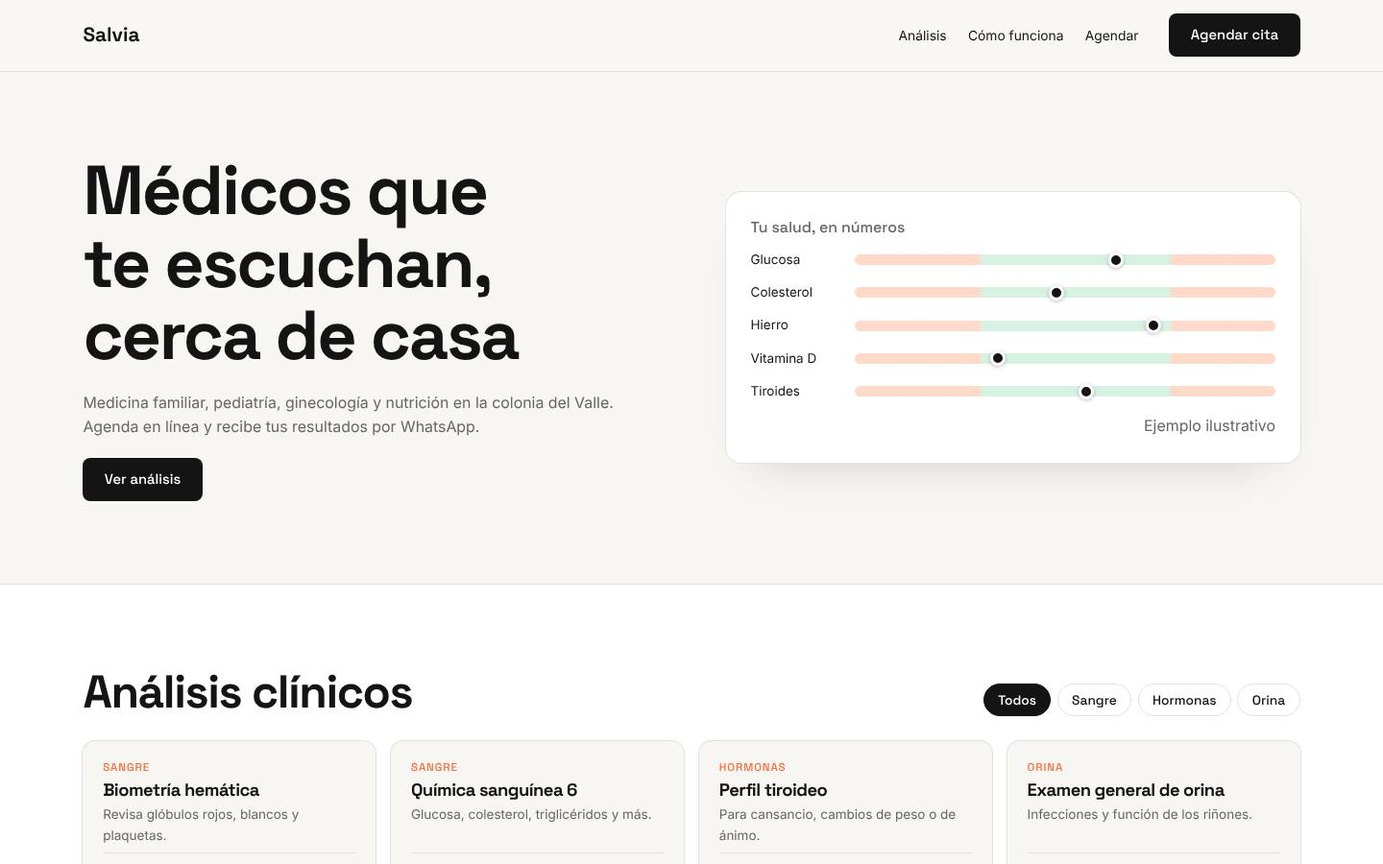
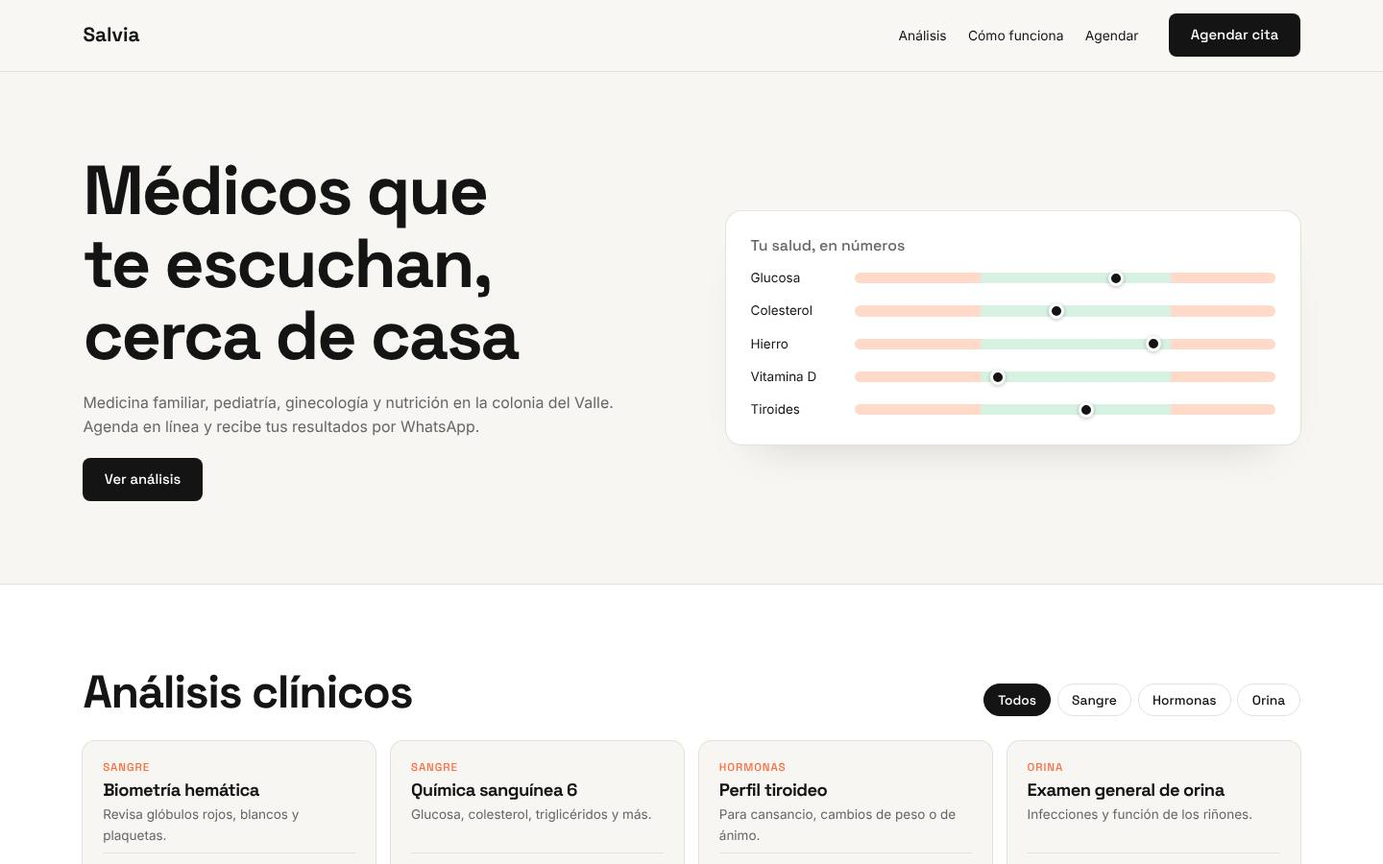
Quita avisos de relleno en plantillas (ejemplo ilustrativo, no sustituye consulta, línea de crisis, resultados no garantizados, notas de fotos)
Claude-Session: https://claude.ai/code/session_017MyEdikhffaKjsPBm6Bdw8

Changed region(s): [[0.5312, 0.2489, 0.9375, 0.5289]]

diff --git a/site/plantillas/cirugia.html b/site/plantillas/cirugia.html
@@ -26,7 +26,7 @@
 <header class="cg-top"><b class="cg-logo">Centro Médico Salvia</b><nav aria-label="Secciones"><a href="#cg-proc">Procedimientos</a><a href="#cg-resultados">Antes y después</a><a href="#cg-blog">Blog</a><a href="#cg-contacto">Contacto</a></nav><a class="cg-btn" href="#cg-contacto" data-sec="cta">Agendar cita</a></header>
 <section class="cg-hero" data-sec="hero"><div class="cg-hero-img" role="img" aria-label="La Dra. Ana Ruiz en su consultorio" style="background-image:url('/img/doc.jpg')"></div><div><p class="cg-kick">Centro médico</p><h1>Médicos que te escuchan, cerca de casa</h1><p>Medicina familiar, pediatría, ginecología y nutrición en la colonia del Valle. Agenda en línea y recibe tus resultados por WhatsApp.</p><a class="cg-btn" href="#cg-contacto">Agenda tu consulta</a></div></section>
 <section class="cg-proc" id="cg-proc" data-sec="services"><h2>Procedimientos</h2><div><article><span>01</span><h3>Medicina familiar</h3><p>Chequeos, enfermedades del día a día, control de diabetes e hipertensión.</p><a class="cg-link" href="https://wa.me/525500000000?text=Hola%2C%20me%20interesa%3A%20Medicina%20familiar" target="_blank" rel="noopener">Valoración <svg class="" viewBox="0 0 24 24" aria-hidden="true"><path d="M5 12h14M13 6l6 6-6 6"/></svg></a></article><article><span>02</span><h3>Pediatría</h3><p>Del recién nacido a la adolescencia: vacunas, crecimiento y consulta de enfermedad.</p><a class="cg-link" href="https://wa.me/525500000000?text=Hola%2C%20me%20interesa%3A%20Pediatr%C3%ADa" target="_blank" rel="noopener">Valoración <svg class="" viewBox="0 0 24 24" aria-hidden="true"><path d="M5 12h14M13 6l6 6-6 6"/></svg></a></article><article><span>03</span><h3>Ginecología</h3><p>Revisión anual, Papanicolaou, control prenatal y anticoncepción.</p><a class="cg-link" href="https://wa.me/525500000000?text=Hola%2C%20me%20interesa%3A%20Ginecolog%C3%ADa" target="_blank" rel="noopener">Valoración <svg class="" viewBox="0 0 24 24" aria-hidden="true"><path d="M5 12h14M13 6l6 6-6 6"/></svg></a></article><article><span>04</span><h3>Nutrición</h3><p>Planes de alimentación para bajar de peso, diabetes o embarazo.</p><a class="cg-link" href="https://wa.me/525500000000?text=Hola%2C%20me%20interesa%3A%20Nutrici%C3%B3n" target="_blank" rel="noopener">Valoración <svg class="" viewBox="0 0 24 24" aria-hidden="true"><path d="M5 12h14M13 6l6 6-6 6"/></svg></a></article><article><span>05</span><h3>Psicología</h3><p>Terapia para ansiedad, duelo y pareja, en persona o en línea.</p><a class="cg-link" href="https://wa.me/525500000000?text=Hola%2C%20me%20interesa%3A%20Psicolog%C3%ADa" target="_blank" rel="noopener">Valoración <svg class="" viewBox="0 0 24 24" aria-hidden="true"><path d="M5 12h14M13 6l6 6-6 6"/></svg></a></article><article><span>06</span><h3>Consulta en línea</h3><p>Videollamada con tu médico para seguimiento, recetas y dudas.</p><a class="cg-link" href="https://wa.me/525500000000?text=Hola%2C%20me%20interesa%3A%20Consulta%20en%20l%C3%ADnea" target="_blank" rel="noopener">Valoración <svg class="" viewBox="0 0 24 24" aria-hidden="true"><path d="M5 12h14M13 6l6 6-6 6"/></svg></a></article></div></section>
-<section class="cg-ba" id="cg-resultados"><h2>Antes y después</h2><p class="cg-sub">Desliza para comparar. Fotos de pacientes reales, publicadas con su consentimiento.</p><div class="cg-cases"><figure><div class="cg-slider cg-ph" aria-hidden="true"><span>Antes</span><span>Después</span></div><figcaption>Rinoplastia · aquí van tus fotos reales</figcaption></figure><figure><div class="cg-slider cg-ph" aria-hidden="true"><span>Antes</span><span>Después</span></div><figcaption>Blefaroplastia · aquí van tus fotos reales</figcaption></figure><figure><div class="cg-slider cg-ph" aria-hidden="true"><span>Antes</span><span>Después</span></div><figcaption>Rejuvenecimiento facial · aquí van tus fotos reales</figcaption></figure></div></section>
+<section class="cg-ba" id="cg-resultados"><h2>Antes y después</h2><p class="cg-sub">Desliza para comparar.</p><div class="cg-cases"><figure><div class="cg-slider cg-ph" aria-hidden="true"><span>Antes</span><span>Después</span></div><figcaption>Rinoplastia</figcaption></figure><figure><div class="cg-slider cg-ph" aria-hidden="true"><span>Antes</span><span>Después</span></div><figcaption>Blefaroplastia</figcaption></figure><figure><div class="cg-slider cg-ph" aria-hidden="true"><span>Antes</span><span>Después</span></div><figcaption>Rejuvenecimiento facial</figcaption></figure></div></section>
 <section class="cg-doc" data-sec="team"><div class="cg-doc-img" role="img" aria-label="Dra. Ana Ruiz" style="background-image:url('/img/doc.jpg')"></div><div><p class="cg-kick">Tu médico</p><h2>Dra. Ana Ruiz</h2><p class="cg-role">Medicina familiar · Cédula 7654321</p><p>15 años de práctica. Le gusta explicar con calma y sin prisas.</p></div></section>
 <section class="cg-blog" id="cg-blog"><h2>Artículos</h2><div><article><div class="cg-blog-img" role="img" aria-label="" style="background-image:url('/img/reception.jpg')"></div><h3>Cada cuánto hacerte un chequeo, según tu edad</h3><p>Lo básico a los 20, 30, 40 y 50 años.</p><a class="cg-link" href="https://wa.me/525500000000?text=Hola%2C%20le%C3%AD%20%C2%ABCada%20cu%C3%A1nto%20hacerte%20un%20chequeo%2C%20seg%C3%BAn%20tu%20edad%C2%BB%20y%20tengo%20una%20pregunta" target="_blank" rel="noopener">Leer <svg class="" viewBox="0 0 24 24" aria-hidden="true"><path d="M5 12h14M13 6l6 6-6 6"/></svg></a></article><article><div class="cg-blog-img" role="img" aria-label="" style="background-image:url('/img/facade.jpg')"></div><h3>Fiebre en niños: cuándo preocuparte</h3><p>Señales para ir a urgencias y qué hacer en casa.</p><a class="cg-link" href="https://wa.me/525500000000?text=Hola%2C%20le%C3%AD%20%C2%ABFiebre%20en%20ni%C3%B1os%3A%20cu%C3%A1ndo%20preocuparte%C2%BB%20y%20tengo%20una%20pregunta" target="_blank" rel="noopener">Leer <svg class="" viewBox="0 0 24 24" aria-hidden="true"><path d="M5 12h14M13 6l6 6-6 6"/></svg></a></article><article><div class="cg-blog-img" role="img" aria-label="" style="background-image:url('/img/desk.jpg')"></div><h3>Ansiedad: 5 señales de que es momento de pedir ayuda</h3><p>Cuándo lo que sientes ya no es &quot;normal&quot;.</p><a class="cg-link" href="https://wa.me/525500000000?text=Hola%2C%20le%C3%AD%20%C2%ABAnsiedad%3A%205%20se%C3%B1ales%20de%20que%20es%20momento%20de%20pedir%20ayuda%C2%BB%20y%20tengo%20una%20pregunta" target="_blank" rel="noopener">Leer <svg class="" viewBox="0 0 24 24" aria-hidden="true"><path d="M5 12h14M13 6l6 6-6 6"/></svg></a></article></div></section>
 <section class="cg-revs" data-sec="reviews"><blockquote><p>“La Dra. Ruiz me explicó todo con calma y me dio seguimiento por WhatsApp.”</p><cite>Mariana L.</cite></blockquote><blockquote><p>“Llevamos a nuestros hijos con la Dra. Méndez desde bebés. Siempre puntual.”</p><cite>Jorge P.</cite></blockquote><blockquote><p>“Me hice los análisis ahí mismo y en la tarde ya tenía resultados.”</p><cite>Lucía R.</cite></blockquote></section>

diff --git a/site/plantillas/analisis.html b/site/plantillas/analisis.html
@@ -25,7 +25,7 @@
 <style>.an2-shop:has(#an2-sangre:checked) .an2-grid>[data-cat]:not([data-cat="sangre"]){display:none}.an2-shop:has(#an2-hormonas:checked) .an2-grid>[data-cat]:not([data-cat="hormonas"]){display:none}.an2-shop:has(#an2-orina:checked) .an2-grid>[data-cat]:not([data-cat="orina"]){display:none}</style>
 <div class="cx an2" style="--a:#FF6A3D;" data-name="Centro Médico Salvia" data-wa="525500000000">
 <header class="ay-top"><b class="ay-logo">Salvia</b><nav aria-label="Secciones"><a href="#ay-catalogo">Análisis</a><a href="#ay-como">Cómo funciona</a><a href="#ay-contacto">Agendar</a></nav><a class="ay-btn" href="#ay-contacto" data-sec="cta">Agendar cita</a></header>
-<section class="ay-hero" data-sec="hero"><div><h1>Médicos que te escuchan, cerca de casa</h1><p>Medicina familiar, pediatría, ginecología y nutrición en la colonia del Valle. Agenda en línea y recibe tus resultados por WhatsApp.</p><a class="ay-btn" href="#ay-catalogo">Ver análisis</a></div><div class="ay-chart" aria-hidden="true"><p class="ay-ct">Tu salud, en números</p><div class="ay-row"><span>Glucosa</span><i style="--v:62%;--d:0s"><b></b></i></div><div class="ay-row"><span>Colesterol</span><i style="--v:48%;--d:0.12s"><b></b></i></div><div class="ay-row"><span>Hierro</span><i style="--v:71%;--d:0.24s"><b></b></i></div><div class="ay-row"><span>Vitamina D</span><i style="--v:34%;--d:0.36s"><b></b></i></div><div class="ay-row"><span>Tiroides</span><i style="--v:55%;--d:0.48s"><b></b></i></div><p class="ay-note">Ejemplo ilustrativo</p></div></section>
+<section class="ay-hero" data-sec="hero"><div><h1>Médicos que te escuchan, cerca de casa</h1><p>Medicina familiar, pediatría, ginecología y nutrición en la colonia del Valle. Agenda en línea y recibe tus resultados por WhatsApp.</p><a class="ay-btn" href="#ay-catalogo">Ver análisis</a></div><div class="ay-chart" aria-hidden="true"><p class="ay-ct">Tu salud, en números</p><div class="ay-row"><span>Glucosa</span><i style="--v:62%;--d:0s"><b></b></i></div><div class="ay-row"><span>Colesterol</span><i style="--v:48%;--d:0.12s"><b></b></i></div><div class="ay-row"><span>Hierro</span><i style="--v:71%;--d:0.24s"><b></b></i></div><div class="ay-row"><span>Vitamina D</span><i style="--v:34%;--d:0.36s"><b></b></i></div><div class="ay-row"><span>Tiroides</span><i style="--v:55%;--d:0.48s"><b></b></i></div></div></section>
 <section class="ay-cat an2-shop" id="ay-catalogo" data-sec="services"><div class="ay-head"><h2>Análisis clínicos</h2><fieldset class="ay-chips"><legend class="t-sr">Categoría</legend><label><input type="radio" name="an2c" checked><span>Todos</span></label><label><input type="radio" name="an2c" id="an2-sangre"><span>Sangre</span></label><label><input type="radio" name="an2c" id="an2-hormonas"><span>Hormonas</span></label><label><input type="radio" name="an2c" id="an2-orina"><span>Orina</span></label></fieldset></div><div class="an2-grid"><article data-cat="sangre"><p class="ay-tag">Sangre</p><h3>Biometría hemática</h3><p>Revisa glóbulos rojos, blancos y plaquetas.</p><div class="ay-pr"><b>$250</b><a class="ay-link" href="https://wa.me/525500000000?text=Hola%2C%20quiero%20agendar%3A%20Biometr%C3%ADa%20hem%C3%A1tica" target="_blank" rel="noopener">Agendar <svg class="" viewBox="0 0 24 24" aria-hidden="true"><path d="M5 12h14M13 6l6 6-6 6"/></svg></a></div></article><article data-cat="sangre"><p class="ay-tag">Sangre</p><h3>Química sanguínea 6</h3><p>Glucosa, colesterol, triglicéridos y más.</p><div class="ay-pr"><b>$390</b><a class="ay-link" href="https://wa.me/525500000000?text=Hola%2C%20quiero%20agendar%3A%20Qu%C3%ADmica%20sangu%C3%ADnea%206" target="_blank" rel="noopener">Agendar <svg class="" viewBox="0 0 24 24" aria-hidden="true"><path d="M5 12h14M13 6l6 6-6 6"/></svg></a></div></article><article data-cat="hormonas"><p class="ay-tag">Hormonas</p><h3>Perfil tiroideo</h3><p>Para cansancio, cambios de peso o de ánimo.</p><div class="ay-pr"><b>$690</b><a class="ay-link" href="https://wa.me/525500000000?text=Hola%2C%20quiero%20agendar%3A%20Perfil%20tiroideo" target="_blank" rel="noopener">Agendar <svg class="" viewBox="0 0 24 24" aria-hidden="true"><path d="M5 12h14M13 6l6 6-6 6"/></svg></a></div></article><article data-cat="orina"><p class="ay-tag">Orina</p><h3>Examen general de orina</h3><p>Infecciones y función de los riñones.</p><div class="ay-pr"><b>$180</b><a class="ay-link" href="https://wa.me/525500000000?text=Hola%2C%20quiero%20agendar%3A%20Examen%20general%20de%20orina" target="_blank" rel="noopener">Agendar <svg class="" viewBox="0 0 24 24" aria-hidden="true"><path d="M5 12h14M13 6l6 6-6 6"/></svg></a></div></article><article data-cat="sangre"><p class="ay-tag">Sangre</p><h3>Hemoglobina glucosilada</h3><p>Promedio de azúcar de los últimos 3 meses.</p><div class="ay-pr"><b>$420</b><a class="ay-link" href="https://wa.me/525500000000?text=Hola%2C%20quiero%20agendar%3A%20Hemoglobina%20glucosilada" target="_blank" rel="noopener">Agendar <svg class="" viewBox="0 0 24 24" aria-hidden="true"><path d="M5 12h14M13 6l6 6-6 6"/></svg></a></div></article><article data-cat="hormonas"><p class="ay-tag">Hormonas</p><h3>Prueba de embarazo</h3><p>En sangre, resultado el mismo día.</p><div class="ay-pr"><b>$220</b><a class="ay-link" href="https://wa.me/525500000000?text=Hola%2C%20quiero%20agendar%3A%20Prueba%20de%20embarazo" target="_blank" rel="noopener">Agendar <svg class="" viewBox="0 0 24 24" aria-hidden="true"><path d="M5 12h14M13 6l6 6-6 6"/></svg></a></div></article></div></section>
 <section class="ay-how" id="ay-como"><h2>Cómo funciona</h2><ol><li><span>01</span><h3>Agenda</h3><p>En línea o por WhatsApp, en el horario que te acomode.</p></li><li><span>02</span><h3>Consulta</h3><p>En el consultorio o por videollamada, con tu médico de siempre.</p></li><li><span>03</span><h3>Estudios</h3><p>Si hacen falta, los tomamos aquí mismo.</p></li><li><span>04</span><h3>Seguimiento</h3><p>Recibe receta, resultados y recordatorios por WhatsApp.</p></li></ol></section>
 <section class="ay-nums" data-sec="trust"><div><b>12</b><span>años en la colonia del Valle</span></div><div><b>9,000+</b><span>pacientes atendidos</span></div><div><b>4.8</b><span>en Google</span></div></section>

diff --git a/site/plantillas/recuperado.html b/site/plantillas/recuperado.html
@@ -25,7 +25,7 @@
 <div class="cx rc2" style="--a:#C6F05A;" data-name="Ortega &amp; Ruiz, abogados y contadores" data-wa="528100000000">
 <header class="rq-top"><b class="rq-logo">Ortega &amp; Ruiz</b><nav aria-label="Secciones"><a href="#rq-resultados">Resultados</a><a href="#rq-areas">Áreas</a><a href="#rq-contacto">Contacto</a></nav><a class="rq-call" href="tel:8100000000"><svg viewBox="0 0 24 24" aria-hidden="true"><path d="M5 4h4l2 5-2.5 1.5a11 11 0 0 0 5 5L15 13l5 2v4a2 2 0 0 1-2 2A16 16 0 0 1 3 6a2 2 0 0 1 2-2"/></svg><span>81 0000 0000</span></a><a class="rq-btn" href="#rq-contacto" data-sec="cta">Agendar consulta</a></header>
 <section class="rq-hero" data-sec="hero"><div class="rq-hero-img" role="img" aria-label="Reunión con clientes en la sala de juntas del despacho" style="background-image:url('/img/demo/desp-oficina.jpg')"></div><div><p class="rq-big">$38 M</p><p class="rq-big-l">en créditos fiscales anulados para clientes desde 2020</p><h1>Resolvemos tus temas legales y fiscales, con claridad y a tiempo</h1><p>Asesoramos a familias y empresas en Monterrey desde 2004: contratos, sociedades, impuestos y defensa fiscal.</p><div class="rq-ctas"><a class="rq-btn" href="#rq-contacto">Agenda tu primera consulta</a><span class="rq-stars">★★★★★ <b>4.9</b> · 74 opiniones en Google</span></div></div></section>
-<section class="rq-res" id="rq-resultados" data-sec="trust"><h2>Resultados para nuestros clientes</h2><div><article><b>$38 M</b><p>en créditos fiscales anulados para clientes desde 2020</p></article><article><b>92%</b><p>de recursos de revocación ganados</p></article><article><b>1,200</b><p>contratos revisados al año</p></article></div><p class="rq-note">Resultados anteriores no garantizan resultados futuros; cada caso es distinto.</p></section>
+<section class="rq-res" id="rq-resultados" data-sec="trust"><h2>Resultados para nuestros clientes</h2><div><article><b>$38 M</b><p>en créditos fiscales anulados para clientes desde 2020</p></article><article><b>92%</b><p>de recursos de revocación ganados</p></article><article><b>1,200</b><p>contratos revisados al año</p></article></div></section>
 <section class="rq-areas" id="rq-areas" data-sec="services"><h2>Áreas de práctica</h2><div><article><h3>Derecho corporativo</h3><p>Constitución de sociedades, actas, contratos entre socios y gobierno corporativo.</p><a class="rq-link" href="https://wa.me/528100000000?text=Hola%2C%20me%20interesa%3A%20Derecho%20corporativo" target="_blank" rel="noopener">Revisar mi caso <svg class="" viewBox="0 0 24 24" aria-hidden="true"><path d="M5 12h14M13 6l6 6-6 6"/></svg></a></article><article><h3>Contabilidad y nómina</h3><p>Contabilidad mensual, declaraciones y nómina para personas físicas y empresas.</p><a class="rq-link" href="https://wa.me/528100000000?text=Hola%2C%20me%20interesa%3A%20Contabilidad%20y%20n%C3%B3mina" target="_blank" rel="noopener">Revisar mi caso <svg class="" viewBox="0 0 24 24" aria-hidden="true"><path d="M5 12h14M13 6l6 6-6 6"/></svg></a></article><article><h3>Defensa fiscal</h3><p>Auditorías del SAT, recursos de revocación y juicios ante el Tribunal Fiscal.</p><a class="rq-link" href="https://wa.me/528100000000?text=Hola%2C%20me%20interesa%3A%20Defensa%20fiscal" target="_blank" rel="noopener">Revisar mi caso <svg class="" viewBox="0 0 24 24" aria-hidden="true"><path d="M5 12h14M13 6l6 6-6 6"/></svg></a></article><article><h3>Contratos</h3><p>Arrendamiento, compraventa, prestación de servicios y confidencialidad.</p><a class="rq-link" href="https://wa.me/528100000000?text=Hola%2C%20me%20interesa%3A%20Contratos" target="_blank" rel="noopener">Revisar mi caso <svg class="" viewBox="0 0 24 24" aria-hidden="true"><path d="M5 12h14M13 6l6 6-6 6"/></svg></a></article><article><h3>Derecho familiar</h3><p>Divorcios, pensiones, sucesiones y testamentos.</p><a class="rq-link" href="https://wa.me/528100000000?text=Hola%2C%20me%20interesa%3A%20Derecho%20familiar" target="_blank" rel="noopener">Revisar mi caso <svg class="" viewBox="0 0 24 24" aria-hidden="true"><path d="M5 12h14M13 6l6 6-6 6"/></svg></a></article><article><h3>Laboral</h3><p>Contratos de trabajo, reglamentos y defensa ante demandas.</p><a class="rq-link" href="https://wa.me/528100000000?text=Hola%2C%20me%20interesa%3A%20Laboral" target="_blank" rel="noopener">Revisar mi caso <svg class="" viewBox="0 0 24 24" aria-hidden="true"><path d="M5 12h14M13 6l6 6-6 6"/></svg></a></article></div></section>
 <section class="rq-revs" data-sec="reviews"><blockquote><span aria-hidden="true">★★★★★</span><p>Nos acompañaron en una auditoría del SAT de principio a fin y nos explicaron cada paso.</p><cite>Grupo Textil del Norte</cite></blockquote><blockquote><span aria-hidden="true">★★★★★</span><p>Llevaron mi sucesión con mucho cuidado y siempre supe en qué iba el trámite.</p><cite>Mariana S.</cite></blockquote><blockquote><span aria-hidden="true">★★★★★</span><p>Desde que llevan nuestra contabilidad no hemos tenido una sola multa.</p><cite>Ferretería Garza</cite></blockquote></section>
 <section class="rq-team" data-sec="team"><h2>Socios</h2><div><article><div class="rq-face" role="img" aria-label="Lic. Laura Ortega" style="background-image:url('/img/demo/desp-abogada.jpg')"></div><div><h3>Lic. Laura Ortega</h3><p>Socia, derecho corporativo y familiar</p></div></article><article><div class="rq-face" role="img" aria-label="C.P. Ricardo Ruiz" style="background-image:url('/img/demo/desp-contador.jpg')"></div><div><h3>C.P. Ricardo Ruiz</h3><p>Socio, contabilidad y defensa fiscal</p></div></article></div></section>

diff --git a/lib/templates/cirugia.js b/lib/templates/cirugia.js
@@ -15,7 +15,7 @@ export function renderCirugia(c = {}, opts = {}) {
   out.push(`<header class="cg-top"><b class="cg-logo">${esc(b.brand.fullName || name)}</b><nav aria-label="Secciones">${[['cg-proc', 'Procedimientos'], ['cg-resultados', 'Antes y después'], ['cg-blog', 'Blog'], ['cg-contacto', 'Contacto']].map(b.navLink).join('')}</nav>${a('cg-btn', '#cg-contacto', esc(b.ctaTop), b.mk('cta'))}</header>`);
   out.push(`<section class="cg-hero"${b.mk('hero')}>${photo(hero.photo, hero.photoAlt || name, 'cg-hero-img')}<div><p class="cg-kick">${esc(b.brand.tagline || '')}</p><h1>${esc(hero.title)}</h1><p>${esc(hero.sub || '')}</p>${a('cg-btn', '#cg-contacto', esc(hero.cta || b.ctaTop))}</div></section>`);
   if (b.services.length) out.push(`<section class="cg-proc" id="cg-proc"${b.mk('services')}><h2>Procedimientos</h2><div>${b.services.map((s, i) => `<article><span>${String(i + 1).padStart(2, '0')}</span><h3>${esc(s.name)}</h3><p>${esc(s.desc || '')}</p>${a('cg-link', b.serviceHref(s), `Valoración ${ICON.arrow('')}`)}</article>`).join('')}</div></section>`);
-  if (cases.length || c.casesDemo) out.push(`<section class="cg-ba" id="cg-resultados"><h2>Antes y después</h2><p class="cg-sub">Desliza para comparar. Fotos de pacientes reales, publicadas con su consentimiento.</p><div class="cg-cases">${cases.length ? cases.map(k => `<figure><div class="cg-slider" data-t-case style="--p:50%"><div class="cg-b" role="img" aria-label="Antes" style="background-image:url('${url(k.before)}')"></div><div class="cg-a" role="img" aria-label="Después" style="background-image:url('${url(k.after)}')"></div><input type="range" min="0" max="100" value="50" aria-label="Comparar antes y después"><span class="cg-tag cg-tag--b">Antes</span><span class="cg-tag cg-tag--a">Después</span></div><figcaption>${esc(k.title || '')}</figcaption></figure>`).join('') : ['Rinoplastia', 'Blefaroplastia', 'Rejuvenecimiento facial'].map(t => `<figure><div class="cg-slider cg-ph" aria-hidden="true"><span>Antes</span><span>Después</span></div><figcaption>${t} · aquí van tus fotos reales</figcaption></figure>`).join('')}</div></section>`);
+  if (cases.length || c.casesDemo) out.push(`<section class="cg-ba" id="cg-resultados"><h2>Antes y después</h2><p class="cg-sub">Desliza para comparar.</p><div class="cg-cases">${cases.length ? cases.map(k => `<figure><div class="cg-slider" data-t-case style="--p:50%"><div class="cg-b" role="img" aria-label="Antes" style="background-image:url('${url(k.before)}')"></div><div class="cg-a" role="img" aria-label="Después" style="background-image:url('${url(k.after)}')"></div><input type="range" min="0" max="100" value="50" aria-label="Comparar antes y después"><span class="cg-tag cg-tag--b">Antes</span><span class="cg-tag cg-tag--a">Después</span></div><figcaption>${esc(k.title || '')}</figcaption></figure>`).join('') : ['Rinoplastia', 'Blefaroplastia', 'Rejuvenecimiento facial'].map(t => `<figure><div class="cg-slider cg-ph" aria-hidden="true"><span>Antes</span><span>Después</span></div><figcaption>${t}</figcaption></figure>`).join('')}</div></section>`);
   if (b.members.length) out.push(`<section class="cg-doc"${b.mk('team')}>${photo(b.members[0].photo, b.members[0].name, 'cg-doc-img')}<div><p class="cg-kick">Tu médico</p><h2>${esc(b.members[0].name)}</h2><p class="cg-role">${esc(b.members[0].role || '')}${b.members[0].license ? ` · Cédula ${esc(b.members[0].license)}` : ''}</p><p>${esc(b.members[0].bio || c.team?.text || '')}</p></div></section>`);
   if (arts.length) out.push(`<section class="cg-blog" id="cg-blog"><h2>${esc(c.articles?.title || 'Blog')}</h2><div>${arts.map((x, i) => `<article>${photo(b.gallery[i % Math.max(b.gallery.length, 1)]?.img, '', 'cg-blog-img')}<h3>${esc(x.title)}</h3><p>${esc(x.desc || '')}</p>${a('cg-link', x.url || (b.waNum ? b.waMsg(`Hola, leí «${x.title}» y tengo una pregunta`) : ''), `Leer ${ICON.arrow('')}`)}</article>`).join('')}</div></section>`);
   if (b.reviews.length) out.push(`<section class="cg-revs"${b.mk('reviews')}>${b.reviews.slice(0, 3).map(r => `<blockquote><p>“${esc(r.text)}”</p><cite>${esc(r.name)}</cite></blockquote>`).join('')}</section>`);

diff --git a/site/assets/cirugia.js b/site/assets/cirugia.js
@@ -15,7 +15,7 @@ export function renderCirugia(c = {}, opts = {}) {
   out.push(`<header class="cg-top"><b class="cg-logo">${esc(b.brand.fullName || name)}</b><nav aria-label="Secciones">${[['cg-proc', 'Procedimientos'], ['cg-resultados', 'Antes y después'], ['cg-blog', 'Blog'], ['cg-contacto', 'Contacto']].map(b.navLink).join('')}</nav>${a('cg-btn', '#cg-contacto', esc(b.ctaTop), b.mk('cta'))}</header>`);
   out.push(`<section class="cg-hero"${b.mk('hero')}>${photo(hero.photo, hero.photoAlt || name, 'cg-hero-img')}<div><p class="cg-kick">${esc(b.brand.tagline || '')}</p><h1>${esc(hero.title)}</h1><p>${esc(hero.sub || '')}</p>${a('cg-btn', '#cg-contacto', esc(hero.cta || b.ctaTop))}</div></section>`);
   if (b.services.length) out.push(`<section class="cg-proc" id="cg-proc"${b.mk('services')}><h2>Procedimientos</h2><div>${b.services.map((s, i) => `<article><span>${String(i + 1).padStart(2, '0')}</span><h3>${esc(s.name)}</h3><p>${esc(s.desc || '')}</p>${a('cg-link', b.serviceHref(s), `Valoración ${ICON.arrow('')}`)}</article>`).join('')}</div></section>`);
-  if (cases.length || c.casesDemo) out.push(`<section class="cg-ba" id="cg-resultados"><h2>Antes y después</h2><p class="cg-sub">Desliza para comparar. Fotos de pacientes reales, publicadas con su consentimiento.</p><div class="cg-cases">${cases.length ? cases.map(k => `<figure><div class="cg-slider" data-t-case style="--p:50%"><div class="cg-b" role="img" aria-label="Antes" style="background-image:url('${url(k.before)}')"></div><div class="cg-a" role="img" aria-label="Después" style="background-image:url('${url(k.after)}')"></div><input type="range" min="0" max="100" value="50" aria-label="Comparar antes y después"><span class="cg-tag cg-tag--b">Antes</span><span class="cg-tag cg-tag--a">Después</span></div><figcaption>${esc(k.title || '')}</figcaption></figure>`).join('') : ['Rinoplastia', 'Blefaroplastia', 'Rejuvenecimiento facial'].map(t => `<figure><div class="cg-slider cg-ph" aria-hidden="true"><span>Antes</span><span>Después</span></div><figcaption>${t} · aquí van tus fotos reales</figcaption></figure>`).join('')}</div></section>`);
+  if (cases.length || c.casesDemo) out.push(`<section class="cg-ba" id="cg-resultados"><h2>Antes y después</h2><p class="cg-sub">Desliza para comparar.</p><div class="cg-cases">${cases.length ? cases.map(k => `<figure><div class="cg-slider" data-t-case style="--p:50%"><div class="cg-b" role="img" aria-label="Antes" style="background-image:url('${url(k.before)}')"></div><div class="cg-a" role="img" aria-label="Después" style="background-image:url('${url(k.after)}')"></div><input type="range" min="0" max="100" value="50" aria-label="Comparar antes y después"><span class="cg-tag cg-tag--b">Antes</span><span class="cg-tag cg-tag--a">Después</span></div><figcaption>${esc(k.title || '')}</figcaption></figure>`).join('') : ['Rinoplastia', 'Blefaroplastia', 'Rejuvenecimiento facial'].map(t => `<figure><div class="cg-slider cg-ph" aria-hidden="true"><span>Antes</span><span>Después</span></div><figcaption>${t}</figcaption></figure>`).join('')}</div></section>`);
   if (b.members.length) out.push(`<section class="cg-doc"${b.mk('team')}>${photo(b.members[0].photo, b.members[0].name, 'cg-doc-img')}<div><p class="cg-kick">Tu médico</p><h2>${esc(b.members[0].name)}</h2><p class="cg-role">${esc(b.members[0].role || '')}${b.members[0].license ? ` · Cédula ${esc(b.members[0].license)}` : ''}</p><p>${esc(b.members[0].bio || c.team?.text || '')}</p></div></section>`);
   if (arts.length) out.push(`<section class="cg-blog" id="cg-blog"><h2>${esc(c.articles?.title || 'Blog')}</h2><div>${arts.map((x, i) => `<article>${photo(b.gallery[i % Math.max(b.gallery.length, 1)]?.img, '', 'cg-blog-img')}<h3>${esc(x.title)}</h3><p>${esc(x.desc || '')}</p>${a('cg-link', x.url || (b.waNum ? b.waMsg(`Hola, leí «${x.title}» y tengo una pregunta`) : ''), `Leer ${ICON.arrow('')}`)}</article>`).join('')}</div></section>`);
   if (b.reviews.length) out.push(`<section class="cg-revs"${b.mk('reviews')}>${b.reviews.slice(0, 3).map(r => `<blockquote><p>“${esc(r.text)}”</p><cite>${esc(r.name)}</cite></blockquote>`).join('')}</section>`);

diff --git a/lib/templates/analisis.js b/lib/templates/analisis.js
@@ -15,7 +15,7 @@ export function renderAnalisis(c = {}, opts = {}) {
   const out = [`<link rel="stylesheet" href="/assets/t-analisis.css">`, style,
     `<div class="cx an2${b.live ? '' : ' an2-still'}" style="--a:${b.accent};${opts.fontVars || ''}" data-name="${esc(name)}" data-wa="${esc(b.waNum)}">`];
   out.push(`<header class="ay-top"><b class="ay-logo">${esc(b.brand.name || name)}</b><nav aria-label="Secciones">${[['ay-catalogo', 'Análisis'], ['ay-como', 'Cómo funciona'], ['ay-contacto', 'Agendar']].map(b.navLink).join('')}</nav>${a('ay-btn', '#ay-contacto', esc(b.ctaTop), b.mk('cta'))}</header>`);
-  out.push(`<section class="ay-hero"${b.mk('hero')}><div><h1>${esc(hero.title)}</h1><p>${esc(hero.sub || '')}</p>${a('ay-btn', '#ay-catalogo', 'Ver análisis')}</div><div class="ay-chart" aria-hidden="true"><p class="ay-ct">Tu salud, en números</p>${bars.map(([k, v], i) => `<div class="ay-row"><span>${k}</span><i style="--v:${v}%;--d:${i * .12}s"><b></b></i></div>`).join('')}<p class="ay-note">Ejemplo ilustrativo</p></div></section>`);
+  out.push(`<section class="ay-hero"${b.mk('hero')}><div><h1>${esc(hero.title)}</h1><p>${esc(hero.sub || '')}</p>${a('ay-btn', '#ay-catalogo', 'Ver análisis')}</div><div class="ay-chart" aria-hidden="true"><p class="ay-ct">Tu salud, en números</p>${bars.map(([k, v], i) => `<div class="ay-row"><span>${k}</span><i style="--v:${v}%;--d:${i * .12}s"><b></b></i></div>`).join('')}</div></section>`);
   if (T.length) out.push(`<section class="ay-cat an2-shop" id="ay-catalogo"${b.mk('services')}><div class="ay-head"><h2>${esc(c.tests?.title || 'Análisis')}</h2><fieldset class="ay-chips"><legend class="t-sr">Categoría</legend><label><input type="radio" name="an2c" checked><span>Todos</span></label>${cats.map(k => `<label><input type="radio" name="an2c" id="an2-${slug(k)}"><span>${esc(k)}</span></label>`).join('')}</fieldset></div><div class="an2-grid">${T.map(t => `<article data-cat="${slug(t.cat || '')}"><p class="ay-tag">${esc(t.cat || '')}</p><h3>${esc(t.name)}</h3><p>${esc(t.desc || '')}</p><div class="ay-pr"><b>${esc(t.price || '')}</b>${a('ay-link', b.waNum ? b.waMsg(`Hola, quiero agendar: ${t.name}`) : b.bookHref, `Agendar ${ICON.arrow('')}`)}</div></article>`).join('')}</div></section>`);
   if (b.steps.length) out.push(`<section class="ay-how" id="ay-como"><h2>${esc(c.process?.title || 'Cómo funciona')}</h2><ol>${b.steps.map((s, i) => `<li><span>${String(i + 1).padStart(2, '0')}</span><h3>${esc(s.t)}</h3><p>${esc(s.d || '')}</p></li>`).join('')}</ol></section>`);
   out.push(`<section class="ay-nums"${b.mk('trust')}>${(c.stats || []).map(s => `<div><b>${esc(s.value)}</b><span>${esc(s.label)}</span></div>`).join('')}</section>`);

diff --git a/site/assets/analisis.js b/site/assets/analisis.js
@@ -15,7 +15,7 @@ export function renderAnalisis(c = {}, opts = {}) {
   const out = [`<link rel="stylesheet" href="/assets/t-analisis.css">`, style,
     `<div class="cx an2${b.live ? '' : ' an2-still'}" style="--a:${b.accent};${opts.fontVars || ''}" data-name="${esc(name)}" data-wa="${esc(b.waNum)}">`];
   out.push(`<header class="ay-top"><b class="ay-logo">${esc(b.brand.name || name)}</b><nav aria-label="Secciones">${[['ay-catalogo', 'Análisis'], ['ay-como', 'Cómo funciona'], ['ay-contacto', 'Agendar']].map(b.navLink).join('')}</nav>${a('ay-btn', '#ay-contacto', esc(b.ctaTop), b.mk('cta'))}</header>`);
-  out.push(`<section class="ay-hero"${b.mk('hero')}><div><h1>${esc(hero.title)}</h1><p>${esc(hero.sub || '')}</p>${a('ay-btn', '#ay-catalogo', 'Ver análisis')}</div><div class="ay-chart" aria-hidden="true"><p class="ay-ct">Tu salud, en números</p>${bars.map(([k, v], i) => `<div class="ay-row"><span>${k}</span><i style="--v:${v}%;--d:${i * .12}s"><b></b></i></div>`).join('')}<p class="ay-note">Ejemplo ilustrativo</p></div></section>`);
+  out.push(`<section class="ay-hero"${b.mk('hero')}><div><h1>${esc(hero.title)}</h1><p>${esc(hero.sub || '')}</p>${a('ay-btn', '#ay-catalogo', 'Ver análisis')}</div><div class="ay-chart" aria-hidden="true"><p class="ay-ct">Tu salud, en números</p>${bars.map(([k, v], i) => `<div class="ay-row"><span>${k}</span><i style="--v:${v}%;--d:${i * .12}s"><b></b></i></div>`).join('')}</div></section>`);
   if (T.length) out.push(`<section class="ay-cat an2-shop" id="ay-catalogo"${b.mk('services')}><div class="ay-head"><h2>${esc(c.tests?.title || 'Análisis')}</h2><fieldset class="ay-chips"><legend class="t-sr">Categoría</legend><label><input type="radio" name="an2c" checked><span>Todos</span></label>${cats.map(k => `<label><input type="radio" name="an2c" id="an2-${slug(k)}"><span>${esc(k)}</span></label>`).join('')}</fieldset></div><div class="an2-grid">${T.map(t => `<article data-cat="${slug(t.cat || '')}"><p class="ay-tag">${esc(t.cat || '')}</p><h3>${esc(t.name)}</h3><p>${esc(t.desc || '')}</p><div class="ay-pr"><b>${esc(t.price || '')}</b>${a('ay-link', b.waNum ? b.waMsg(`Hola, quiero agendar: ${t.name}`) : b.bookHref, `Agendar ${ICON.arrow('')}`)}</div></article>`).join('')}</div></section>`);
   if (b.steps.length) out.push(`<section class="ay-how" id="ay-como"><h2>${esc(c.process?.title || 'Cómo funciona')}</h2><ol>${b.steps.map((s, i) => `<li><span>${String(i + 1).padStart(2, '0')}</span><h3>${esc(s.t)}</h3><p>${esc(s.d || '')}</p></li>`).join('')}</ol></section>`);
   out.push(`<section class="ay-nums"${b.mk('trust')}>${(c.stats || []).map(s => `<div><b>${esc(s.value)}</b><span>${esc(s.label)}</span></div>`).join('')}</section>`);

diff --git a/lib/templates/recuperado.js b/lib/templates/recuperado.js
@@ -14,7 +14,7 @@ export function renderRecuperado(c = {}, opts = {}) {
   out.push(`<header class="rq-top"><b class="rq-logo">${esc(b.brand.name || name)}</b><nav aria-label="Secciones">${[['rq-resultados', 'Resultados'], ['rq-areas', 'Áreas'], ['rq-contacto', 'Contacto']].map(b.navLink).join('')}</nav>${b.telNum ? a('rq-call', `tel:${b.telNum}`, `${ICON.phone}<span>${esc(contact.phone)}</span>`) : ''}${a('rq-btn', '#rq-contacto', esc(b.ctaTop), b.mk('cta'))}</header>`);
   out.push(`<section class="rq-hero"${b.mk('hero')}>${photo(hero.photo, hero.photoAlt || name, 'rq-hero-img')}<div>${big ? `<p class="rq-big">${esc(big.value)}</p><p class="rq-big-l">${esc(big.label)}</p>` : ''}<h1>${esc(hero.title)}</h1><p>${esc(hero.sub || '')}</p><div class="rq-ctas">${a('rq-btn', '#rq-contacto', esc(hero.cta || b.ctaTop))}${b.rating ? `<span class="rq-stars">★★★★★ <b>${esc(b.rating.value)}</b> · ${esc(b.rating.count)} opiniones en ${esc(b.rating.source || 'Google')}</span>` : ''}</div></div></section>`);
   if ((c.press || []).length) out.push(`<section class="rq-press"><p>Nos han entrevistado en</p><div>${c.press.map(p => `<span>${esc(p)}</span>`).join('')}</div></section>`);
-  if (R.length > 1) out.push(`<section class="rq-res" id="rq-resultados"${b.mk('trust')}><h2>Resultados para nuestros clientes</h2><div>${R.map(r => `<article><b>${esc(r.value)}</b><p>${esc(r.label)}</p></article>`).join('')}</div><p class="rq-note">Resultados anteriores no garantizan resultados futuros; cada caso es distinto.</p></section>`);
+  if (R.length > 1) out.push(`<section class="rq-res" id="rq-resultados"${b.mk('trust')}><h2>Resultados para nuestros clientes</h2><div>${R.map(r => `<article><b>${esc(r.value)}</b><p>${esc(r.label)}</p></article>`).join('')}</div></section>`);
   if (b.services.length) out.push(`<section class="rq-areas" id="rq-areas"${b.mk('services')}><h2>${esc(c.services?.title || 'Áreas')}</h2><div>${b.services.map(s => `<article><h3>${esc(s.name)}</h3><p>${esc(s.desc || '')}</p>${a('rq-link', b.serviceHref(s), `Revisar mi caso ${ICON.arrow('')}`)}</article>`).join('')}</div></section>`);
   if (b.reviews.length) out.push(`<section class="rq-revs"${b.mk('reviews')}>${b.reviews.slice(0, 3).map(r => `<blockquote><span aria-hidden="true">★★★★★</span><p>${esc(r.text)}</p><cite>${esc(r.name)}</cite></blockquote>`).join('')}</section>`);
   if (b.members.length) out.push(`<section class="rq-team"${b.mk('team')}><h2>${esc(c.team?.title || 'Equipo')}</h2><div>${b.members.map(m => `<article>${photo(m.photo, m.name, 'rq-face')}<div><h3>${esc(m.name)}</h3><p>${esc(m.role || '')}</p></div></article>`).join('')}</div></section>`);

diff --git a/site/assets/recuperado.js b/site/assets/recuperado.js
@@ -14,7 +14,7 @@ export function renderRecuperado(c = {}, opts = {}) {
   out.push(`<header class="rq-top"><b class="rq-logo">${esc(b.brand.name || name)}</b><nav aria-label="Secciones">${[['rq-resultados', 'Resultados'], ['rq-areas', 'Áreas'], ['rq-contacto', 'Contacto']].map(b.navLink).join('')}</nav>${b.telNum ? a('rq-call', `tel:${b.telNum}`, `${ICON.phone}<span>${esc(contact.phone)}</span>`) : ''}${a('rq-btn', '#rq-contacto', esc(b.ctaTop), b.mk('cta'))}</header>`);
   out.push(`<section class="rq-hero"${b.mk('hero')}>${photo(hero.photo, hero.photoAlt || name, 'rq-hero-img')}<div>${big ? `<p class="rq-big">${esc(big.value)}</p><p class="rq-big-l">${esc(big.label)}</p>` : ''}<h1>${esc(hero.title)}</h1><p>${esc(hero.sub || '')}</p><div class="rq-ctas">${a('rq-btn', '#rq-contacto', esc(hero.cta || b.ctaTop))}${b.rating ? `<span class="rq-stars">★★★★★ <b>${esc(b.rating.value)}</b> · ${esc(b.rating.count)} opiniones en ${esc(b.rating.source || 'Google')}</span>` : ''}</div></div></section>`);
   if ((c.press || []).length) out.push(`<section class="rq-press"><p>Nos han entrevistado en</p><div>${c.press.map(p => `<span>${esc(p)}</span>`).join('')}</div></section>`);
-  if (R.length > 1) out.push(`<section class="rq-res" id="rq-resultados"${b.mk('trust')}><h2>Resultados para nuestros clientes</h2><div>${R.map(r => `<article><b>${esc(r.value)}</b><p>${esc(r.label)}</p></article>`).join('')}</div><p class="rq-note">Resultados anteriores no garantizan resultados futuros; cada caso es distinto.</p></section>`);
+  if (R.length > 1) out.push(`<section class="rq-res" id="rq-resultados"${b.mk('trust')}><h2>Resultados para nuestros clientes</h2><div>${R.map(r => `<article><b>${esc(r.value)}</b><p>${esc(r.label)}</p></article>`).join('')}</div></section>`);
   if (b.services.length) out.push(`<section class="rq-areas" id="rq-areas"${b.mk('services')}><h2>${esc(c.services?.title || 'Áreas')}</h2><div>${b.services.map(s => `<article><h3>${esc(s.name)}</h3><p>${esc(s.desc || '')}</p>${a('rq-link', b.serviceHref(s), `Revisar mi caso ${ICON.arrow('')}`)}</article>`).join('')}</div></section>`);
   if (b.reviews.length) out.push(`<section class="rq-revs"${b.mk('reviews')}>${b.reviews.slice(0, 3).map(r => `<blockquote><span aria-hidden="true">★★★★★</span><p>${esc(r.text)}</p><cite>${esc(r.name)}</cite></blockquote>`).join('')}</section>`);
   if (b.members.length) out.push(`<section class="rq-team"${b.mk('team')}><h2>${esc(c.team?.title || 'Equipo')}</h2><div>${b.members.map(m => `<article>${photo(m.photo, m.name, 'rq-face')}<div><h3>${esc(m.name)}</h3><p>${esc(m.role || '')}</p></div></article>`).join('')}</div></section>`);

diff --git a/site/plantillas/guia.html b/site/plantillas/guia.html
@@ -35,7 +35,7 @@
       <label><span>¿Cuándo?</span><select name="w" data-l="Cuándo"><option>Hoy</option><option>Mañana</option><option>Esta semana</option><option>La próxima semana</option></select></label>
       <label class="t-case-w"><span>Tu nombre</span><input name="n" data-l="Nombre" autocomplete="name"></label>
       <button type="submit">Pedir cita</button></form></section>
-<footer class="gu-foot" id="gu-ubicacion" data-sec="visit"><div><b class="gu-logo">Centro Médico Salvia</b><p>Av. Coyoacán 1420, Col. del Valle, Benito Juárez, CDMX</p><p><a class="" href="https://www.google.com/maps/search/?api=1&amp;query=Av.%20Coyoac%C3%A1n%201420%2C%20Col.%20del%20Valle%2C%20Benito%20Ju%C3%A1rez%2C%20CDMX" target="_blank" rel="noopener">Cómo llegar</a></p></div><div><p>Lunes a viernes: 8:00 a 20:00</p><p>Sábados: 9:00 a 14:00</p></div><p class="gu-disc">La información de esta página es educativa y no sustituye una consulta médica.</p><div class="gu-legal"><span>© 2026 Centro Médico Salvia</span><span>Aviso de privacidad</span><span>Demo de Ceiba Labs (negocio ficticio)</span></div></footer>
+<footer class="gu-foot" id="gu-ubicacion" data-sec="visit"><div><b class="gu-logo">Centro Médico Salvia</b><p>Av. Coyoacán 1420, Col. del Valle, Benito Juárez, CDMX</p><p><a class="" href="https://www.google.com/maps/search/?api=1&amp;query=Av.%20Coyoac%C3%A1n%201420%2C%20Col.%20del%20Valle%2C%20Benito%20Ju%C3%A1rez%2C%20CDMX" target="_blank" rel="noopener">Cómo llegar</a></p></div><div><p>Lunes a viernes: 8:00 a 20:00</p><p>Sábados: 9:00 a 14:00</p></div><div class="gu-legal"><span>© 2026 Centro Médico Salvia</span><span>Aviso de privacidad</span><span>Demo de Ceiba Labs (negocio ficticio)</span></div></footer>
 <div class="gu-sticky"><a class="gu-btn" href="#gu-cita">Pedir cita</a></div>
 <script type="application/json" class="t-kb">{"name":"Centro Médico Salvia","wa":"525500000000","book":"https://wa.me/525500000000?text=Hola%2C%20quiero%20agendar%20una%20cita%20en%20Centro%20M%C3%A9dico%20Salvia"}</script>
 </div>

diff --git a/site/plantillas/paisaje.html b/site/plantillas/paisaje.html
@@ -34,7 +34,7 @@
       <label><span>¿Cuándo?</span><select name="w" data-l="Cuándo"><option>Hoy</option><option>Mañana</option><option>Esta semana</option><option>La próxima semana</option></select></label>
       <label class="t-case-w"><span>Tu nombre</span><input name="n" data-l="Nombre" autocomplete="name"></label>
       <button type="submit">Pedir cita</button></form></div></section>
-<footer class="pj-foot" data-sec="visit"><b class="pj-logo">Salvia</b><p>Av. Coyoacán 1420, Col. del Valle, Benito Juárez, CDMX</p><p>Lunes a viernes: 8:00 a 20:00 · Sábados: 9:00 a 14:00</p><p><a class="" href="tel:5500000000">55 0000 0000</a> · <a class="" href="https://www.google.com/maps/search/?api=1&amp;query=Av.%20Coyoac%C3%A1n%201420%2C%20Col.%20del%20Valle%2C%20Benito%20Ju%C3%A1rez%2C%20CDMX" target="_blank" rel="noopener">Cómo llegar</a></p><p class="pj-crisis">Si estás en crisis, llama a la Línea de la Vida: 800 911 2000 (24 h, gratis).</p><div><span>© 2026 Centro Médico Salvia</span><span>Aviso de privacidad</span><span>Demo de Ceiba Labs (negocio ficticio)</span></div></footer>
+<footer class="pj-foot" data-sec="visit"><b class="pj-logo">Salvia</b><p>Av. Coyoacán 1420, Col. del Valle, Benito Juárez, CDMX</p><p>Lunes a viernes: 8:00 a 20:00 · Sábados: 9:00 a 14:00</p><p><a class="" href="tel:5500000000">55 0000 0000</a> · <a class="" href="https://www.google.com/maps/search/?api=1&amp;query=Av.%20Coyoac%C3%A1n%201420%2C%20Col.%20del%20Valle%2C%20Benito%20Ju%C3%A1rez%2C%20CDMX" target="_blank" rel="noopener">Cómo llegar</a></p><div><span>© 2026 Centro Médico Salvia</span><span>Aviso de privacidad</span><span>Demo de Ceiba Labs (negocio ficticio)</span></div></footer>
 <div class="pj-sticky"><a class="pj-btn" href="#pj-contacto">Agendar cita</a></div>
 <script type="application/json" class="t-kb">{"name":"Centro Médico Salvia","wa":"525500000000","book":"https://wa.me/525500000000?text=Hola%2C%20quiero%20agendar%20una%20cita%20en%20Centro%20M%C3%A9dico%20Salvia"}</script>
 </div>

diff --git a/lib/templates/paisaje.js b/lib/templates/paisaje.js
@@ -18,7 +18,7 @@ export function renderPaisaje(c = {}, opts = {}) {
   if (b.reviews.length) out.push(`<section class="pj-revs pj-dusk"${b.mk('reviews')}>${SCENE('#F59E7A', '#FBD3A6', '#8E5A7A', '#5E3A60', '#FF7F50')}<div class="pj-in"><h2>${esc(lines[2])}</h2><div>${b.reviews.slice(0, 3).map(r => `<blockquote><p>“${esc(r.text)}”</p><cite>${esc(r.name)}</cite></blockquote>`).join('')}</div></div></section>`);
   if (b.faq.length) out.push(`<section class="pj-faq"><h2>Las dudas de siempre</h2>${b.faq.map(f => `<details><summary>${esc(f.q)}</summary><p>${esc(f.a)}</p></details>`).join('')}</section>`);
   out.push(`<section class="pj-cta pj-night" id="pj-contacto">${SCENE('#1E2350', '#3B3F7A', '#2A2E5E', '#1A1D44', '#F4F1D0')}<div class="pj-in"><h2>¿Platicamos?</h2><p>${esc(c.util?.note || 'Escríbenos y te respondemos hoy.')}</p>${b.apptForm('pj-case')}</div></section>`);
-  out.push(`<footer class="pj-foot"${b.mk('visit')}><b class="pj-logo">${esc(b.brand.name || name)}</b><p>${esc(contact.address || '')}</p><p>${b.rows.map(r => `${esc(r.dt)}: ${esc(r.dd)}`).join(' · ')}</p><p>${b.telNum ? a('', `tel:${b.telNum}`, esc(contact.phone)) : ''}${b.mapsHref ? ` · ${a('', b.mapsHref, 'Cómo llegar')}` : ''}</p><p class="pj-crisis">Si estás en crisis, llama a la Línea de la Vida: 800 911 2000 (24 h, gratis).</p><div>${b.legal()}</div></footer>`);
+  out.push(`<footer class="pj-foot"${b.mk('visit')}><b class="pj-logo">${esc(b.brand.name || name)}</b><p>${esc(contact.address || '')}</p><p>${b.rows.map(r => `${esc(r.dt)}: ${esc(r.dd)}`).join(' · ')}</p><p>${b.telNum ? a('', `tel:${b.telNum}`, esc(contact.phone)) : ''}${b.mapsHref ? ` · ${a('', b.mapsHref, 'Cómo llegar')}` : ''}</p><div>${b.legal()}</div></footer>`);
   out.push(`<div class="pj-sticky">${a('pj-btn', '#pj-contacto', esc(b.ctaTop))}</div>`, b.kb({}), '</div>');
   return out.join('\n');
 }
